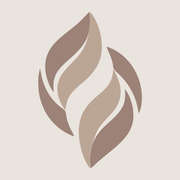
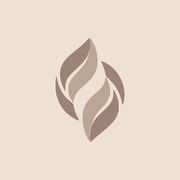
Ícono con fondo crema para Google; menú y portada sin salto al cargar
Claude-Session: https://claude.ai/code/session_01SZDTpWmSXq1P3Fn7ergZV2

Changed region(s): [[0.1944, 0.0556, 0.8056, 0.9444]]

diff --git a/marketing-alquileres-vacacionales-costa-rica.html b/marketing-alquileres-vacacionales-costa-rica.html
@@ -17,16 +17,17 @@
 <meta property="og:url" content="https://sestracreative.com/marketing-alquileres-vacacionales-costa-rica">
 <meta property="og:image" content="https://sestracreative.com/img/og.jpg">
 <meta name="twitter:card" content="summary_large_image">
-<link rel="icon" href="/img/favicon-32.png" sizes="32x32">
+<link rel="icon" href="/favicon.ico" sizes="48x48">
+<link rel="icon" type="image/png" sizes="96x96" href="/img/favicon-96.png">
 <link rel="apple-touch-icon" href="/img/apple-touch-icon.png">
 <link rel="preload" href="/fonts/montserrat-var.woff2" as="font" type="font/woff2" crossorigin>
 <link rel="preload" href="/fonts/poppins-400.woff2" as="font" type="font/woff2" crossorigin>
-<link rel="stylesheet" href="/css/pagina.css?v=1126g">
+<link rel="stylesheet" href="/css/pagina.css?v=1126h">
 <script type="application/ld+json">{"@context":"https://schema.org","@graph":[{"@type":"Service","@id":"https://sestracreative.com/marketing-alquileres-vacacionales-costa-rica#servicio","name":"Marketing para alquileres vacacionales y hoteles","serviceType":"Marketing para alquileres vacacionales y hoteles","description":"Agencia de marketing para alquileres vacacionales en Guanacaste, Costa Rica: fotos profesionales, video con drone, contenido en redes y herramientas de reserva directa.","url":"https://sestracreative.com/marketing-alquileres-vacacionales-costa-rica","inLanguage":"es","provider":{"@id":"https://sestracreative.com/#negocio"},"areaServed":[{"@type":"Place","name":"Tamarindo"},{"@type":"AdministrativeArea","name":"Guanacaste"},{"@type":"Country","name":"Costa Rica"}],"offers":[{"@type":"Offer","name":"Fotos","priceCurrency":"USD","priceSpecification":{"@type":"PriceSpecification","minPrice":350,"priceCurrency":"USD"}},{"@type":"Offer","name":"Video con drone","priceCurrency":"USD","priceSpecification":{"@type":"PriceSpecification","minPrice":575,"priceCurrency":"USD"}},{"@type":"Offer","name":"Fotos + video","priceCurrency":"USD","priceSpecification":{"@type":"PriceSpecification","minPrice":810,"priceCurrency":"USD"}}]},{"@type":"BreadcrumbList","itemListElement":[{"@type":"ListItem","position":1,"name":"Inicio","item":"https://sestracreative.com/"},{"@type":"ListItem","position":2,"name":"Agencia de marketing para alquileres vacacionales en Costa Rica","item":"https://sestracreative.com/marketing-alquileres-vacacionales-costa-rica"}]},{"@type":"FAQPage","@id":"https://sestracreative.com/marketing-alquileres-vacacionales-costa-rica#preguntas","inLanguage":"es","mainEntity":[{"@type":"Question","name":"¿Qué hace una agencia de marketing para alquileres vacacionales?","acceptedAnswer":{"@type":"Answer","text":"Se encarga de lo que atrae huéspedes a una propiedad: fotos y video, contenido en redes y las herramientas digitales alrededor del anuncio. En Sestra Creative eso significa fotografía, video con drone, planes de contenido, sitios de reserva directa, guías del huésped, chatbots y reportes para dueños."}},{"@type":"Question","name":"¿Administran mis reservas o a mis huéspedes?","acceptedAnswer":{"@type":"Answer","text":"No. Somos una agencia de marketing y contenido, no administradores de propiedades. Nosotros hacemos las fotos, el contenido y las herramientas; tú o tu administrador siguen manejando las reservas."}},{"@type":"Question","name":"¿Trabajan con una sola propiedad o solo con portafolios?","acceptedAnswer":{"@type":"Answer","text":"Con ambos. Trabajamos con administradores de varias propiedades, hoteles pequeños y dueños de una sola propiedad."}},{"@type":"Question","name":"¿Cuánto cuesta?","acceptedAnswer":{"@type":"Answer","text":"Las fotos cuestan desde $350 por propiedad, el video con drone desde $575 y fotos más video desde $810, con IVA incluido. Los planes mensuales de contenido y los servicios digitales se cotizan en cada caso."}},{"@type":"Question","name":"¿Dónde trabajan?","acceptedAnswer":{"@type":"Answer","text":"Principalmente en Tamarindo y alrededores y en la Gran Área Metropolitana, sin costo de traslado. En cualquier otra zona de Costa Rica, con el traslado cotizado."}},{"@type":"Question","name":"¿Pueden hacer un sitio de reserva directa para mi villa?","acceptedAnswer":{"@type":"Answer","text":"Sí. Los sitios de reserva directa son parte de nuestros servicios digitales. Escríbenos con los datos de tu propiedad y te cotizamos."}}]}]}</script>
 </head>
 <body>
 <header class="top"><div class="wrap">
-<a class="brand" href="https://sestracreative.com/" aria-label="Sestra Creative"><img src="/img/favicon-192.png" alt="" width="28" height="28"><span>Sestra Creative</span></a>
+<a class="brand" href="https://sestracreative.com/" aria-label="Sestra Creative"><img src="/img/logo-mark.png" alt="" width="28" height="28"><span>Sestra Creative</span></a>
 <nav class="menu" aria-label="Servicios"><a href="https://sestracreative.com/">Inicio</a><a href="https://sestracreative.com/fotografo-inmobiliario-costa-rica">Fotografía inmobiliaria</a><a href="https://sestracreative.com/fotografo-airbnb-costa-rica">Fotógrafo de Airbnb</a><a href="https://sestracreative.com/vacation-rental-marketing-costa-rica" hreflang="en" lang="en">English</a><a class="btn" href="https://wa.me/50687100430?text=%C2%A1Hola%21%20Quisiera%20cotizar%20mi%20propiedad%20en%20Costa%20Rica." target="_blank" rel="noopener">WhatsApp</a></nav>
 </div></header>
 <main>

diff --git a/vacation-rental-marketing-costa-rica.html b/vacation-rental-marketing-costa-rica.html
@@ -17,16 +17,17 @@
 <meta property="og:url" content="https://sestracreative.com/vacation-rental-marketing-costa-rica">
 <meta property="og:image" content="https://sestracreative.com/img/og.jpg">
 <meta name="twitter:card" content="summary_large_image">
-<link rel="icon" href="/img/favicon-32.png" sizes="32x32">
+<link rel="icon" href="/favicon.ico" sizes="48x48">
+<link rel="icon" type="image/png" sizes="96x96" href="/img/favicon-96.png">
 <link rel="apple-touch-icon" href="/img/apple-touch-icon.png">
 <link rel="preload" href="/fonts/montserrat-var.woff2" as="font" type="font/woff2" crossorigin>
 <link rel="preload" href="/fonts/poppins-400.woff2" as="font" type="font/woff2" crossorigin>
-<link rel="stylesheet" href="/css/pagina.css?v=1126g">
+<link rel="stylesheet" href="/css/pagina.css?v=1126h">
 <script type="application/ld+json">{"@context":"https://schema.org","@graph":[{"@type":"Service","@id":"https://sestracreative.com/vacation-rental-marketing-costa-rica#servicio","name":"Marketing for vacation rentals and hotels","serviceType":"Marketing for vacation rentals and hotels","description":"Marketing agency for vacation rentals in Guanacaste, Costa Rica: professional photos, drone video, social content and direct-booking tools for villas and small hotels.","url":"https://sestracreative.com/vacation-rental-marketing-costa-rica","inLanguage":"en","provider":{"@id":"https://sestracreative.com/#negocio"},"areaServed":[{"@type":"Place","name":"Tamarindo"},{"@type":"AdministrativeArea","name":"Guanacaste"},{"@type":"Country","name":"Costa Rica"}],"offers":[{"@type":"Offer","name":"Photos","priceCurrency":"USD","priceSpecification":{"@type":"PriceSpecification","minPrice":350,"priceCurrency":"USD"}},{"@type":"Offer","name":"Drone video","priceCurrency":"USD","priceSpecification":{"@type":"PriceSpecification","minPrice":575,"priceCurrency":"USD"}},{"@type":"Offer","name":"Photos + video","priceCurrency":"USD","priceSpecification":{"@type":"PriceSpecification","minPrice":810,"priceCurrency":"USD"}}]},{"@type":"BreadcrumbList","itemListElement":[{"@type":"ListItem","position":1,"name":"Home","item":"https://sestracreative.com/en"},{"@type":"ListItem","position":2,"name":"Marketing agency for vacation rentals in Costa Rica","item":"https://sestracreative.com/vacation-rental-marketing-costa-rica"}]},{"@type":"FAQPage","@id":"https://sestracreative.com/vacation-rental-marketing-costa-rica#preguntas","inLanguage":"en","mainEntity":[{"@type":"Question","name":"What does a vacation rental marketing agency do?","acceptedAnswer":{"@type":"Answer","text":"It handles what attracts guests to a property: photos and video, social media content, and the digital tools around the listing. At Sestra Creative that means photography, drone video, content plans, direct-booking sites, guest guides, chatbots and owner reports."}},{"@type":"Question","name":"Do you manage my reservations or my guests?","acceptedAnswer":{"@type":"Answer","text":"No. We are a marketing and content agency, not a property manager. We make the photos, content and tools; you or your manager keep running the bookings."}},{"@type":"Question","name":"Do you work with a single property or only with portfolios?","acceptedAnswer":{"@type":"Answer","text":"Both. We work with managers who handle several properties, small hotels and owners of one property."}},{"@type":"Question","name":"How much does it cost?","acceptedAnswer":{"@type":"Answer","text":"Photos start at $350 per property, drone video at $575 and photos plus video at $810, VAT included. Monthly content plans and digital services are quoted for each case."}},{"@type":"Question","name":"Where do you work?","acceptedAnswer":{"@type":"Answer","text":"Mainly in Tamarindo and surroundings and in the Greater Metropolitan Area, with no travel fee. Anywhere else in Costa Rica, with travel quoted."}},{"@type":"Question","name":"Can you make a direct-booking website for my villa?","acceptedAnswer":{"@type":"Answer","text":"Yes. Direct-booking sites are part of our digital services. Message us with your property and we will quote it."}}]}]}</script>
 </head>
 <body>
 <header class="top"><div class="wrap">
-<a class="brand" href="https://sestracreative.com/en" aria-label="Sestra Creative"><img src="/img/favicon-192.png" alt="" width="28" height="28"><span>Sestra Creative</span></a>
+<a class="brand" href="https://sestracreative.com/en" aria-label="Sestra Creative"><img src="/img/logo-mark.png" alt="" width="28" height="28"><span>Sestra Creative</span></a>
 <nav class="menu" aria-label="Services"><a href="https://sestracreative.com/en">Home</a><a href="https://sestracreative.com/real-estate-photographer-costa-rica">Real estate photography</a><a href="https://sestracreative.com/airbnb-photographer-costa-rica">Airbnb photographer</a><a href="https://sestracreative.com/marketing-alquileres-vacacionales-costa-rica" hreflang="es" lang="es">Español</a><a class="btn" href="https://wa.me/50687100430?text=Hi%21%20I%27d%20like%20a%20quote%20for%20my%20property%20in%20Costa%20Rica." target="_blank" rel="noopener">WhatsApp</a></nav>
 </div></header>
 <main>

diff --git a/fotografo-inmobiliario-costa-rica.html b/fotografo-inmobiliario-costa-rica.html
@@ -17,16 +17,17 @@
 <meta property="og:url" content="https://sestracreative.com/fotografo-inmobiliario-costa-rica">
 <meta property="og:image" content="https://sestracreative.com/img/og.jpg">
 <meta name="twitter:card" content="summary_large_image">
-<link rel="icon" href="/img/favicon-32.png" sizes="32x32">
+<link rel="icon" href="/favicon.ico" sizes="48x48">
+<link rel="icon" type="image/png" sizes="96x96" href="/img/favicon-96.png">
 <link rel="apple-touch-icon" href="/img/apple-touch-icon.png">
 <link rel="preload" href="/fonts/montserrat-var.woff2" as="font" type="font/woff2" crossorigin>
 <link rel="preload" href="/fonts/poppins-400.woff2" as="font" type="font/woff2" crossorigin>
-<link rel="stylesheet" href="/css/pagina.css?v=1126g">
+<link rel="stylesheet" href="/css/pagina.css?v=1126h">
 <script type="application/ld+json">{"@context":"https://schema.org","@graph":[{"@type":"Service","@id":"https://sestracreative.com/fotografo-inmobiliario-costa-rica#servicio","name":"Fotografía inmobiliaria y de alquileres vacacionales","serviceType":"Fotografía inmobiliaria y de alquileres vacacionales","description":"Fotografía inmobiliaria y video con drone para casas, condominios y villas en venta en Tamarindo, Guanacaste y todo Costa Rica. Desde $350, entrega en 1 a 3 días hábiles.","url":"https://sestracreative.com/fotografo-inmobiliario-costa-rica","inLanguage":"es","provider":{"@id":"https://sestracreative.com/#negocio"},"areaServed":[{"@type":"Place","name":"Tamarindo"},{"@type":"AdministrativeArea","name":"Guanacaste"},{"@type":"Country","name":"Costa Rica"}],"offers":[{"@type":"Offer","name":"Fotos","priceCurrency":"USD","priceSpecification":{"@type":"PriceSpecification","minPrice":350,"priceCurrency":"USD"}},{"@type":"Offer","name":"Video con drone","priceCurrency":"USD","priceSpecification":{"@type":"PriceSpecification","minPrice":575,"priceCurrency":"USD"}},{"@type":"Offer","name":"Fotos + video","priceCurrency":"USD","priceSpecification":{"@type":"PriceSpecification","minPrice":810,"priceCurrency":"USD"}}]},{"@type":"BreadcrumbList","itemListElement":[{"@type":"ListItem","position":1,"name":"Inicio","item":"https://sestracreative.com/"},{"@type":"ListItem","position":2,"name":"Fotógrafo inmobiliario en Costa Rica","item":"https://sestracreative.com/fotografo-inmobiliario-costa-rica"}]},{"@type":"FAQPage","@id":"https://sestracreative.com/fotografo-inmobiliario-costa-rica#preguntas","inLanguage":"es","mainEntity":[{"@type":"Question","name":"¿Cuánto cuesta un fotógrafo inmobiliario en Costa Rica?","acceptedAnswer":{"@type":"Answer","text":"En Sestra Creative, las fotos cuestan desde $350 por propiedad, el video con drone desde $575 y fotos más video desde $810. Los precios son en dólares e incluyen IVA."}},{"@type":"Question","name":"¿Fotografían para Airbnb y Booking?","acceptedAnswer":{"@type":"Answer","text":"Sí. Cada entrega incluye versiones con las medidas para Airbnb, Booking y redes, además de los originales en alta resolución."}},{"@type":"Question","name":"¿Hacen fotografía con drone?","acceptedAnswer":{"@type":"Answer","text":"Sí. El video con drone y las fotos aéreas se pueden contratar solos o junto con las fotos de la propiedad."}},{"@type":"Question","name":"¿Van fuera de Tamarindo?","acceptedAnswer":{"@type":"Answer","text":"Sí. En Tamarindo y alrededores y en la Gran Área Metropolitana no se cobra traslado. A cualquier otra zona de Costa Rica el traslado se cotiza antes de reservar."}},{"@type":"Question","name":"¿En cuánto tiempo recibo las fotos?","acceptedAnswer":{"@type":"Answer","text":"Entre 1 y 3 días hábiles, por un enlace de Google Drive."}},{"@type":"Question","name":"¿Hablan inglés?","acceptedAnswer":{"@type":"Answer","text":"Sí. Trabajamos en español e inglés."}}]}]}</script>
 </head>
 <body>
 <header class="top"><div class="wrap">
-<a class="brand" href="https://sestracreative.com/" aria-label="Sestra Creative"><img src="/img/favicon-192.png" alt="" width="28" height="28"><span>Sestra Creative</span></a>
+<a class="brand" href="https://sestracreative.com/" aria-label="Sestra Creative"><img src="/img/logo-mark.png" alt="" width="28" height="28"><span>Sestra Creative</span></a>
 <nav class="menu" aria-label="Servicios"><a href="https://sestracreative.com/">Inicio</a><a href="https://sestracreative.com/marketing-alquileres-vacacionales-costa-rica">Marketing para alquileres vacacionales</a><a href="https://sestracreative.com/fotografo-airbnb-costa-rica">Fotógrafo de Airbnb</a><a href="https://sestracreative.com/real-estate-photographer-costa-rica" hreflang="en" lang="en">English</a><a class="btn" href="https://wa.me/50687100430?text=%C2%A1Hola%21%20Quisiera%20cotizar%20mi%20propiedad%20en%20Costa%20Rica." target="_blank" rel="noopener">WhatsApp</a></nav>
 </div></header>
 <main>

diff --git a/fotografo-airbnb-costa-rica.html b/fotografo-airbnb-costa-rica.html
@@ -17,16 +17,17 @@
 <meta property="og:url" content="https://sestracreative.com/fotografo-airbnb-costa-rica">
 <meta property="og:image" content="https://sestracreative.com/img/og.jpg">
 <meta name="twitter:card" content="summary_large_image">
-<link rel="icon" href="/img/favicon-32.png" sizes="32x32">
+<link rel="icon" href="/favicon.ico" sizes="48x48">
+<link rel="icon" type="image/png" sizes="96x96" href="/img/favicon-96.png">
 <link rel="apple-touch-icon" href="/img/apple-touch-icon.png">
 <link rel="preload" href="/fonts/montserrat-var.woff2" as="font" type="font/woff2" crossorigin>
 <link rel="preload" href="/fonts/poppins-400.woff2" as="font" type="font/woff2" crossorigin>
-<link rel="stylesheet" href="/css/pagina.css?v=1126g">
+<link rel="stylesheet" href="/css/pagina.css?v=1126h">
 <script type="application/ld+json">{"@context":"https://schema.org","@graph":[{"@type":"Service","@id":"https://sestracreative.com/fotografo-airbnb-costa-rica#servicio","name":"Fotografía para anuncios de Airbnb","serviceType":"Fotografía para anuncios de Airbnb","description":"Fotografía profesional para anuncios de Airbnb en Costa Rica: fotos y video con drone para villas, condominios y alquileres vacacionales. Desde $350, entrega en 1 a 3 días hábiles.","url":"https://sestracreative.com/fotografo-airbnb-costa-rica","inLanguage":"es","provider":{"@id":"https://sestracreative.com/#negocio"},"areaServed":[{"@type":"Place","name":"Tamarindo"},{"@type":"AdministrativeArea","name":"Guanacaste"},{"@type":"Country","name":"Costa Rica"}],"offers":[{"@type":"Offer","name":"Fotos","priceCurrency":"USD","priceSpecification":{"@type":"PriceSpecification","minPrice":350,"priceCurrency":"USD"}},{"@type":"Offer","name":"Video con drone","priceCurrency":"USD","priceSpecification":{"@type":"PriceSpecification","minPrice":575,"priceCurrency":"USD"}},{"@type":"Offer","name":"Fotos + video","priceCurrency":"USD","priceSpecification":{"@type":"PriceSpecification","minPrice":810,"priceCurrency":"USD"}}]},{"@type":"BreadcrumbList","itemListElement":[{"@type":"ListItem","position":1,"name":"Inicio","item":"https://sestracreative.com/"},{"@type":"ListItem","position":2,"name":"Fotógrafo de Airbnb en Costa Rica","item":"https://sestracreative.com/fotografo-airbnb-costa-rica"}]},{"@type":"FAQPage","@id":"https://sestracreative.com/fotografo-airbnb-costa-rica#preguntas","inLanguage":"es","mainEntity":[{"@type":"Question","name":"¿Cuánto cuesta un fotógrafo de Airbnb en Costa Rica?","acceptedAnswer":{"@type":"Answer","text":"En Sestra Creative, las fotos cuestan desde $350 por propiedad, el video con drone desde $575 y fotos más video desde $810. Los precios son en dólares e incluyen IVA."}},{"@type":"Question","name":"¿Las fotos sirven para mi anuncio de Airbnb?","acceptedAnswer":{"@type":"Answer","text":"Sí. Cada entrega incluye versiones con las medidas para Airbnb y Booking, además de los originales en alta resolución."}},{"@type":"Question","name":"¿Pueden agregar fotos con drone a mi anuncio?","acceptedAnswer":{"@type":"Answer","text":"Sí. El video con drone y las fotos aéreas se pueden sumar a la sesión de fotos o contratar solos."}},{"@type":"Question","name":"¿En cuánto tiempo recibo las fotos?","acceptedAnswer":{"@type":"Answer","text":"Entre 1 y 3 días hábiles, por un enlace de Google Drive."}},{"@type":"Question","name":"¿Van fuera de Tamarindo?","acceptedAnswer":{"@type":"Answer","text":"Sí. En Tamarindo y alrededores y en la Gran Área Metropolitana no se cobra traslado. A cualquier otra zona de Costa Rica el traslado se cotiza antes de reservar."}},{"@type":"Question","name":"¿Hablan inglés?","acceptedAnswer":{"@type":"Answer","text":"Sí. Trabajamos en español e inglés."}}]}]}</script>
 </head>
 <body>
 <header class="top"><div class="wrap">
-<a class="brand" href="https://sestracreative.com/" aria-label="Sestra Creative"><img src="/img/favicon-192.png" alt="" width="28" height="28"><span>Sestra Creative</span></a>
+<a class="brand" href="https://sestracreative.com/" aria-label="Sestra Creative"><img src="/img/logo-mark.png" alt="" width="28" height="28"><span>Sestra Creative</span></a>
 <nav class="menu" aria-label="Servicios"><a href="https://sestracreative.com/">Inicio</a><a href="https://sestracreative.com/fotografo-inmobiliario-costa-rica">Fotografía inmobiliaria</a><a href="https://sestracreative.com/marketing-alquileres-vacacionales-costa-rica">Marketing para alquileres vacacionales</a><a href="https://sestracreative.com/airbnb-photographer-costa-rica" hreflang="en" lang="en">English</a><a class="btn" href="https://wa.me/50687100430?text=%C2%A1Hola%21%20Quisiera%20cotizar%20mi%20propiedad%20en%20Costa%20Rica." target="_blank" rel="noopener">WhatsApp</a></nav>
 </div></header>
 <main>

diff --git a/real-estate-photographer-costa-rica.html b/real-estate-photographer-costa-rica.html
@@ -17,16 +17,17 @@
 <meta property="og:url" content="https://sestracreative.com/real-estate-photographer-costa-rica">
 <meta property="og:image" content="https://sestracreative.com/img/og.jpg">
 <meta name="twitter:card" content="summary_large_image">
-<link rel="icon" href="/img/favicon-32.png" sizes="32x32">
+<link rel="icon" href="/favicon.ico" sizes="48x48">
+<link rel="icon" type="image/png" sizes="96x96" href="/img/favicon-96.png">
 <link rel="apple-touch-icon" href="/img/apple-touch-icon.png">
 <link rel="preload" href="/fonts/montserrat-var.woff2" as="font" type="font/woff2" crossorigin>
 <link rel="preload" href="/fonts/poppins-400.woff2" as="font" type="font/woff2" crossorigin>
-<link rel="stylesheet" href="/css/pagina.css?v=1126g">
+<link rel="stylesheet" href="/css/pagina.css?v=1126h">
 <script type="application/ld+json">{"@context":"https://schema.org","@graph":[{"@type":"Service","@id":"https://sestracreative.com/real-estate-photographer-costa-rica#servicio","name":"Real estate and vacation rental photography","serviceType":"Real estate and vacation rental photography","description":"Real estate photography and drone video for homes, condos and villas for sale in Tamarindo, Guanacaste and across Costa Rica. From $350, delivered in 1 to 3 business days.","url":"https://sestracreative.com/real-estate-photographer-costa-rica","inLanguage":"en","provider":{"@id":"https://sestracreative.com/#negocio"},"areaServed":[{"@type":"Place","name":"Tamarindo"},{"@type":"AdministrativeArea","name":"Guanacaste"},{"@type":"Country","name":"Costa Rica"}],"offers":[{"@type":"Offer","name":"Photos","priceCurrency":"USD","priceSpecification":{"@type":"PriceSpecification","minPrice":350,"priceCurrency":"USD"}},{"@type":"Offer","name":"Drone video","priceCurrency":"USD","priceSpecification":{"@type":"PriceSpecification","minPrice":575,"priceCurrency":"USD"}},{"@type":"Offer","name":"Photos + video","priceCurrency":"USD","priceSpecification":{"@type":"PriceSpecification","minPrice":810,"priceCurrency":"USD"}}]},{"@type":"BreadcrumbList","itemListElement":[{"@type":"ListItem","position":1,"name":"Home","item":"https://sestracreative.com/en"},{"@type":"ListItem","position":2,"name":"Real estate photographer in Costa Rica","item":"https://sestracreative.com/real-estate-photographer-costa-rica"}]},{"@type":"FAQPage","@id":"https://sestracreative.com/real-estate-photographer-costa-rica#preguntas","inLanguage":"en","mainEntity":[{"@type":"Question","name":"How much does a real estate photographer cost in Costa Rica?","acceptedAnswer":{"@type":"Answer","text":"At Sestra Creative, photos start at $350 per property, drone video at $575 and photos plus video at $810. Prices are in US dollars and include VAT."}},{"@type":"Question","name":"Do you photograph for Airbnb and Booking?","acceptedAnswer":{"@type":"Answer","text":"Yes. Every delivery includes versions sized for Airbnb, Booking and social media, plus the high-resolution originals."}},{"@type":"Question","name":"Do you offer drone photography?","acceptedAnswer":{"@type":"Answer","text":"Yes. Drone video and aerial photos are available alone or together with the property photos."}},{"@type":"Question","name":"Do you travel outside Tamarindo?","acceptedAnswer":{"@type":"Answer","text":"Yes. There is no travel fee in Tamarindo and surroundings or in the Greater Metropolitan Area. Anywhere else in Costa Rica we quote travel before booking."}},{"@type":"Question","name":"How long until I get my photos?","acceptedAnswer":{"@type":"Answer","text":"Between 1 and 3 business days, through a Google Drive link."}},{"@type":"Question","name":"Do you speak English?","acceptedAnswer":{"@type":"Answer","text":"Yes. We work in English and Spanish."}}]}]}</script>
 </head>
 <body>
 <header class="top"><div class="wrap">
-<a class="brand" href="https://sestracreative.com/en" aria-label="Sestra Creative"><img src="/img/favicon-192.png" alt="" width="28" height="28"><span>Sestra Creative</span></a>
+<a class="brand" href="https://sestracreative.com/en" aria-label="Sestra Creative"><img src="/img/logo-mark.png" alt="" width="28" height="28"><span>Sestra Creative</span></a>
 <nav class="menu" aria-label="Services"><a href="https://sestracreative.com/en">Home</a><a href="https://sestracreative.com/vacation-rental-marketing-costa-rica">Vacation rental marketing</a><a href="https://sestracreative.com/airbnb-photographer-costa-rica">Airbnb photographer</a><a href="https://sestracreative.com/fotografo-inmobiliario-costa-rica" hreflang="es" lang="es">Español</a><a class="btn" href="https://wa.me/50687100430?text=Hi%21%20I%27d%20like%20a%20quote%20for%20my%20property%20in%20Costa%20Rica." target="_blank" rel="noopener">WhatsApp</a></nav>
 </div></header>
 <main>

diff --git a/airbnb-photographer-costa-rica.html b/airbnb-photographer-costa-rica.html
@@ -17,16 +17,17 @@
 <meta property="og:url" content="https://sestracreative.com/airbnb-photographer-costa-rica">
 <meta property="og:image" content="https://sestracreative.com/img/og.jpg">
 <meta name="twitter:card" content="summary_large_image">
-<link rel="icon" href="/img/favicon-32.png" sizes="32x32">
+<link rel="icon" href="/favicon.ico" sizes="48x48">
+<link rel="icon" type="image/png" sizes="96x96" href="/img/favicon-96.png">
 <link rel="apple-touch-icon" href="/img/apple-touch-icon.png">
 <link rel="preload" href="/fonts/montserrat-var.woff2" as="font" type="font/woff2" crossorigin>
 <link rel="preload" href="/fonts/poppins-400.woff2" as="font" type="font/woff2" crossorigin>
-<link rel="stylesheet" href="/css/pagina.css?v=1126g">
+<link rel="stylesheet" href="/css/pagina.css?v=1126h">
 <script type="application/ld+json">{"@context":"https://schema.org","@graph":[{"@type":"Service","@id":"https://sestracreative.com/airbnb-photographer-costa-rica#servicio","name":"Airbnb listing photography","serviceType":"Airbnb listing photography","description":"Professional Airbnb listing photography in Costa Rica: photos and drone video for villas, condos and vacation rentals. From $350, delivered in 1 to 3 business days.","url":"https://sestracreative.com/airbnb-photographer-costa-rica","inLanguage":"en","provider":{"@id":"https://sestracreative.com/#negocio"},"areaServed":[{"@type":"Place","name":"Tamarindo"},{"@type":"AdministrativeArea","name":"Guanacaste"},{"@type":"Country","name":"Costa Rica"}],"offers":[{"@type":"Offer","name":"Photos","priceCurrency":"USD","priceSpecification":{"@type":"PriceSpecification","minPrice":350,"priceCurrency":"USD"}},{"@type":"Offer","name":"Drone video","priceCurrency":"USD","priceSpecification":{"@type":"PriceSpecification","minPrice":575,"priceCurrency":"USD"}},{"@type":"Offer","name":"Photos + video","priceCurrency":"USD","priceSpecification":{"@type":"PriceSpecification","minPrice":810,"priceCurrency":"USD"}}]},{"@type":"BreadcrumbList","itemListElement":[{"@type":"ListItem","position":1,"name":"Home","item":"https://sestracreative.com/en"},{"@type":"ListItem","position":2,"name":"Airbnb photographer in Costa Rica","item":"https://sestracreative.com/airbnb-photographer-costa-rica"}]},{"@type":"FAQPage","@id":"https://sestracreative.com/airbnb-photographer-costa-rica#preguntas","inLanguage":"en","mainEntity":[{"@type":"Question","name":"How much does an Airbnb photographer cost in Costa Rica?","acceptedAnswer":{"@type":"Answer","text":"At Sestra Creative, photos start at $350 per property, drone video at $575 and photos plus video at $810. Prices are in US dollars and include VAT."}},{"@type":"Question","name":"Will the photos work for my Airbnb listing?","acceptedAnswer":{"@type":"Answer","text":"Yes. Every delivery includes versions sized for Airbnb and Booking, plus the high-resolution originals."}},{"@type":"Question","name":"Can you add drone photos to my listing?","acceptedAnswer":{"@type":"Answer","text":"Yes. Drone video and aerial photos can be added to the photo session or booked on their own."}},{"@type":"Question","name":"How long until I get the photos?","acceptedAnswer":{"@type":"Answer","text":"Between 1 and 3 business days, through a Google Drive link."}},{"@type":"Question","name":"Do you travel outside Tamarindo?","acceptedAnswer":{"@type":"Answer","text":"Yes. There is no travel fee in Tamarindo and surroundings or in the Greater Metropolitan Area. Anywhere else in Costa Rica we quote travel before booking."}},{"@type":"Question","name":"Do you speak English?","acceptedAnswer":{"@type":"Answer","text":"Yes. We work in English and Spanish."}}]}]}</script>
 </head>
 <body>
 <header class="top"><div class="wrap">
-<a class="brand" href="https://sestracreative.com/en" aria-label="Sestra Creative"><img src="/img/favicon-192.png" alt="" width="28" height="28"><span>Sestra Creative</span></a>
+<a class="brand" href="https://sestracreative.com/en" aria-label="Sestra Creative"><img src="/img/logo-mark.png" alt="" width="28" height="28"><span>Sestra Creative</span></a>
 <nav class="menu" aria-label="Services"><a href="https://sestracreative.com/en">Home</a><a href="https://sestracreative.com/real-estate-photographer-costa-rica">Real estate photography</a><a href="https://sestracreative.com/vacation-rental-marketing-costa-rica">Vacation rental marketing</a><a href="https://sestracreative.com/fotografo-airbnb-costa-rica" hreflang="es" lang="es">Español</a><a class="btn" href="https://wa.me/50687100430?text=Hi%21%20I%27d%20like%20a%20quote%20for%20my%20property%20in%20Costa%20Rica." target="_blank" rel="noopener">WhatsApp</a></nav>
 </div></header>
 <main>

diff --git a/index.html b/index.html
@@ -1,5 +1,5 @@
 <!doctype html>
-<html lang="es" data-page-lang="es">
+<html lang="es" data-page-lang="es" class="dp dp-pill">
 <head>
 <meta charset="utf-8">
 <style>:root{color-scheme:light;box-sizing:border-box;padding-top:env(safe-area-inset-top,0px);padding-bottom:env(safe-area-inset-bottom,0px)}html{scroll-padding-top:env(safe-area-inset-top,0px)}body{margin:0;padding:0;font:14px -apple-system,BlinkMacSystemFont,sans-serif;background:#fff;color:#000}img{max-width:100%}[hidden]:not([hidden=until-found i]){display:none!important}</style>
@@ -17,7 +17,8 @@
 <link rel="alternate" hreflang="x-default" href="https://sestracreative.com/">
 <link rel="canonical" href="https://sestracreative.com/">
 <meta property="og:url" content="https://sestracreative.com/">
-<link rel="icon" type="image/png" sizes="32x32" href="img/favicon-32.png">
+<link rel="icon" href="/favicon.ico" sizes="48x48">
+<link rel="icon" type="image/png" sizes="96x96" href="img/favicon-96.png">
 <link rel="icon" type="image/png" sizes="192x192" href="img/favicon-192.png">
 <link rel="apple-touch-icon" href="img/apple-touch-icon.png">
 <meta property="og:image" content="https://sestracreative.com/img/og.jpg">
@@ -489,14 +490,14 @@ h2{color:var(--olive-ink)}
 </style>
 <link rel="preload" as="image" href="assets/hero-dron2-poster.webp" media="(min-width: 861px)" fetchpriority="high">
 <link rel="preload" as="image" href="assets/hero-dron2-cel-poster.webp" media="(max-width: 860px)" fetchpriority="high">
-<link rel="stylesheet" href="css/site2.css?v=1126g">
-<link rel="stylesheet" href="css/depth.css?v=1126g">
+<link rel="stylesheet" href="css/site2.css?v=1126h">
+<link rel="stylesheet" href="css/depth.css?v=1126h">
 </head>
 <body>
 
 <div class="ribbon" id="ribbon" hidden><div class="wrap"><b data-i18n="ribbon.tag">EN PREPARACIÓN</b><span data-i18n="ribbon.txt">El número de WhatsApp y las fechas ocupadas todavía son de ejemplo. Lo que envíes aquí todavía no se guarda.</span></div></div>
 
-<header class="top">
+<header class="top dp-clear">
   <div class="wrap">
     <div class="bar">
       <a class="brand" href="#inicio" aria-label="Sestra Creative">
@@ -772,9 +773,9 @@ h2{color:var(--olive-ink)}
   <span>WhatsApp</span>
 </a></aside>
 <div class="toast" id="toast" role="status" hidden></div>
-<script src="js/site2.js?v=1126g" defer></script>
-<script src="js/moments.js?v=1126g" defer></script>
-<script src="js/depth.js?v=1126g" defer></script>
+<script src="js/site2.js?v=1126h" defer></script>
+<script src="js/moments.js?v=1126h" defer></script>
+<script src="js/depth.js?v=1126h" defer></script>
 <dialog class="lb" id="lb"><button class="lb-x" id="lb-x" type="button">&times;</button><button class="lb-p" id="lb-p" type="button">&lsaquo;</button><img id="lb-img" alt=""><p id="lb-cap"></p><button class="lb-n" id="lb-n" type="button">&rsaquo;</button></dialog>
 <script>
 /* ============ CONFIGURACIÓN (lo único que hay que tocar para publicar) ============ */

diff --git a/en.html b/en.html
@@ -1,5 +1,5 @@
 <!doctype html>
-<html lang="en" data-page-lang="en">
+<html lang="en" data-page-lang="en" class="dp dp-pill">
 <head>
 <meta charset="utf-8">
 <style>:root{color-scheme:light;box-sizing:border-box;padding-top:env(safe-area-inset-top,0px);padding-bottom:env(safe-area-inset-bottom,0px)}html{scroll-padding-top:env(safe-area-inset-top,0px)}body{margin:0;padding:0;font:14px -apple-system,BlinkMacSystemFont,sans-serif;background:#fff;color:#000}img{max-width:100%}[hidden]:not([hidden=until-found i]){display:none!important}</style>
@@ -17,7 +17,8 @@
 <link rel="alternate" hreflang="x-default" href="https://sestracreative.com/">
 <link rel="canonical" href="https://sestracreative.com/en">
 <meta property="og:url" content="https://sestracreative.com/en">
-<link rel="icon" type="image/png" sizes="32x32" href="img/favicon-32.png">
+<link rel="icon" href="/favicon.ico" sizes="48x48">
+<link rel="icon" type="image/png" sizes="96x96" href="img/favicon-96.png">
 <link rel="icon" type="image/png" sizes="192x192" href="img/favicon-192.png">
 <link rel="apple-touch-icon" href="img/apple-touch-icon.png">
 <meta property="og:image" content="https://sestracreative.com/img/og.jpg">
@@ -489,14 +490,14 @@ h2{color:var(--olive-ink)}
 </style>
 <link rel="preload" as="image" href="assets/hero-dron2-poster.webp" media="(min-width: 861px)" fetchpriority="high">
 <link rel="preload" as="image" href="assets/hero-dron2-cel-poster.webp" media="(max-width: 860px)" fetchpriority="high">
-<link rel="stylesheet" href="css/site2.css?v=1126g">
-<link rel="stylesheet" href="css/depth.css?v=1126g">
+<link rel="stylesheet" href="css/site2.css?v=1126h">
+<link rel="stylesheet" href="css/depth.css?v=1126h">
 </head>
 <body>
 
 <div class="ribbon" id="ribbon" hidden><div class="wrap"><b data-i18n="ribbon.tag">IN PROGRESS</b><span data-i18n="ribbon.txt">The WhatsApp number and busy dates are still examples. Nothing you submit here is saved yet.</span></div></div>
 
-<header class="top">
+<header class="top dp-clear">
   <div class="wrap">
     <div class="bar">
       <a class="brand" href="#inicio" aria-label="Sestra Creative">
@@ -772,9 +773,9 @@ h2{color:var(--olive-ink)}
   <span>WhatsApp</span>
 </a></aside>
 <div class="toast" id="toast" role="status" hidden></div>
-<script src="js/site2.js?v=1126g" defer></script>
-<script src="js/moments.js?v=1126g" defer></script>
-<script src="js/depth.js?v=1126g" defer></script>
+<script src="js/site2.js?v=1126h" defer></script>
+<script src="js/moments.js?v=1126h" defer></script>
+<script src="js/depth.js?v=1126h" defer></script>
 <dialog class="lb" id="lb"><button class="lb-x" id="lb-x" type="button">&times;</button><button class="lb-p" id="lb-p" type="button">&lsaquo;</button><img id="lb-img" alt=""><p id="lb-cap"></p><button class="lb-n" id="lb-n" type="button">&rsaquo;</button></dialog>
 <script>
 /* ============ CONFIGURACIÓN (lo único que hay que tocar para publicar) ============ */

diff --git a/css/site2.css b/css/site2.css
@@ -522,8 +522,7 @@ a{text-underline-offset:.22em;text-decoration-thickness:1px}
   .hero #ph-hero{margin-right:calc(-1 * clamp(20px,2.6vw,52px) - max(0px,(100vw - 1880px) / 2))!important;width:calc(100% + clamp(20px,2.6vw,52px) + max(0px,(100vw - 1880px) / 2))!important;max-width:none!important;aspect-ratio:auto!important;height:min(86vh,920px);max-height:none!important;border-radius:0}
 }
 @media (max-width:980px){.hero #ph-hero{margin-inline:calc(-1 * clamp(20px,2.6vw,52px));border-radius:0}}
-.hero #ph-hero{overflow:hidden;animation:revealR 1.4s var(--ease-out) .1s both}
-.hero #ph-hero img,.hero #ph-hero video{animation:settle 2.2s var(--ease-out) .1s both}
+.hero #ph-hero{overflow:hidden}
 @keyframes revealR{from{clip-path:inset(0 0 0 100%)}to{clip-path:inset(0 0 0 0)}}
 @keyframes settle{from{transform:scale(1.18)}to{transform:scale(1)}}
 .hero .copy>*{animation:rise 1s var(--ease-out) both}

diff --git a/tools/build_paginas.py b/tools/build_paginas.py
@@ -431,16 +431,16 @@ def render(key, p):
 <meta property="og:url" content="{me}">
 <meta property="og:image" content="{BASE}img/og.jpg">
 <meta name="twitter:card" content="summary_large_image">
-<link rel="icon" href="/img/favicon-32.png" sizes="32x32">
+<link rel="icon" href="/favicon.ico" sizes="48x48">\n<link rel="icon" type="image/png" sizes="96x96" href="/img/favicon-96.png">
 <link rel="apple-touch-icon" href="/img/apple-touch-icon.png">
 <link rel="preload" href="/fonts/montserrat-var.woff2" as="font" type="font/woff2" crossorigin>
 <link rel="preload" href="/fonts/poppins-400.woff2" as="font" type="font/woff2" crossorigin>
-<link rel="stylesheet" href="/css/pagina.css?v=1126g">
+<link rel="stylesheet" href="/css/pagina.css?v=1126h">
 <script type="application/ld+json">{ld}</script>
 </head>
 <body>
 <header class="top"><div class="wrap">
-<a class="brand" href="{u['home']}" aria-label="Sestra Creative"><img src="/img/favicon-192.png" alt="" width="28" height="28"><span>Sestra Creative</span></a>
+<a class="brand" href="{u['home']}" aria-label="Sestra Creative"><img src="/img/logo-mark.png" alt="" width="28" height="28"><span>Sestra Creative</span></a>
 {menu}
 </div></header>
 <main>

diff --git a/tools/build_i18n.py b/tools/build_i18n.py
@@ -20,8 +20,8 @@ if not BASE.endswith("/"):
     sys.exit("El canonical de index.html debe terminar en /")
 
 # 1. en.html: misma página, idioma de la página en inglés
-en = src.replace('<html lang="es" data-page-lang="es">', '<html lang="en" data-page-lang="en">', 1)
-assert en != src, 'index.html debe empezar con <html lang="es" data-page-lang="es">'
+en = src.replace('<html lang="es" data-page-lang="es" class="dp dp-pill">', '<html lang="en" data-page-lang="en" class="dp dp-pill">', 1)
+assert en != src, 'index.html debe empezar con <html lang="es" data-page-lang="es" class="dp dp-pill">'
 open("en.html", "w", encoding="utf-8").write(en)
 
 # 2. leer los textos que pone el JavaScript en cada idioma
